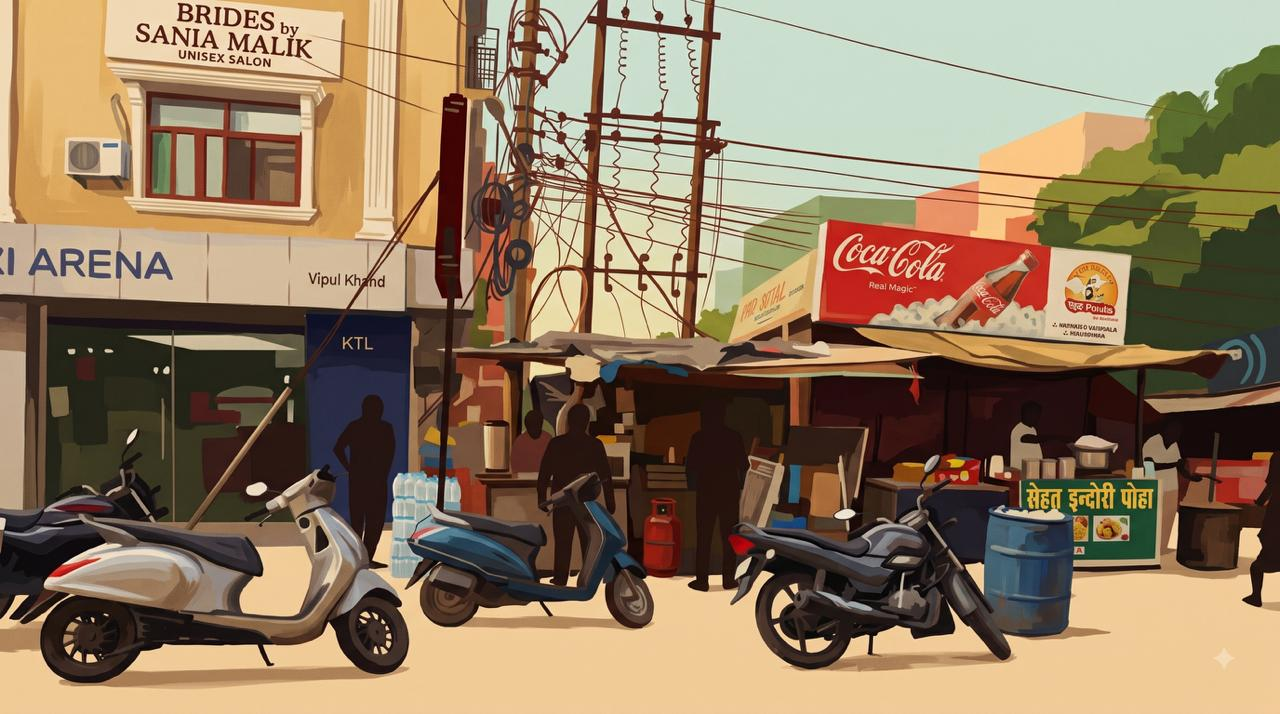
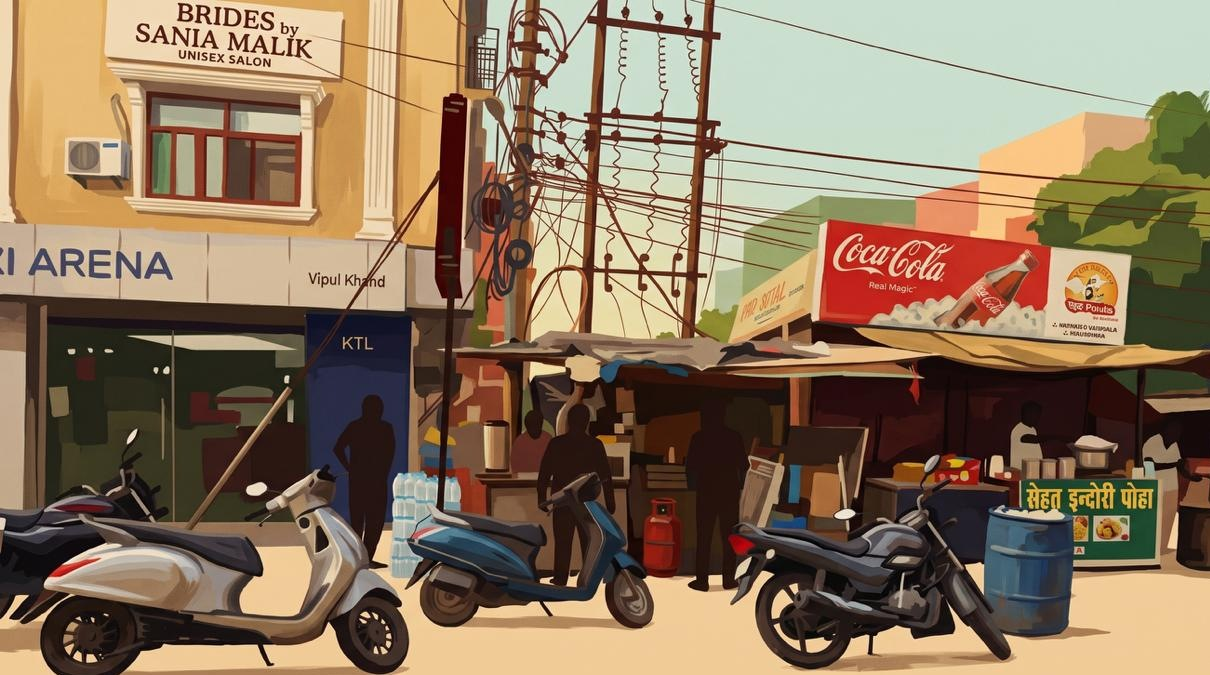
Crop out the Gemini watermark; switch the UI accent to the Afterhours red
The generated plates carried Gemini's sparkle watermark at a fixed
offset in the bottom-right — measured at x 1214-1234, y 647-667 across
the set. All 18 are re-encoded as the top-left 1210x675 region, which
drops the mark while holding the original 1.79 aspect ratio. Verified
every corner is clean and every signboard still reads.

The amber highlight becomes the wordmark red (#B7151E) on the active
time pill, the play button, the album ring and the register's active
row. Text on those red grounds flips from INK to PAPER — ink on this
red is only ~2.8:1, cream is ~5.2:1. Focus rings use a brightened
#E33B33 so they clear 3:1 against both the dark chrome and the cream
paper. Scene lighting stays warm; only the UI accent changed.

Claude-Session: https://claude.ai/code/session_01QFWSwmPyQVaiKognaxXyf8

diff --git a/app/page.js b/app/page.js
@@ -9,7 +9,8 @@ import { useEffect, useMemo, useRef, useState } from "react";
 const INK = "#17120E";
 const PAPER = "#EDE2CB";
 const CLAY = "#B4552F";
-const AMBER = "#E8A33D";
+const RED = "#B7151E";   /* Afterhours wordmark red — UI accent */
+const RED_LIT = "#E33B33"; /* brightened, for focus rings that must stay visible */
 const STEEL = "#93A0A6";
 
 const TAPRIS = [
@@ -552,7 +553,7 @@ function RegisterDrawer({ open, onClose, activeId, onSelect }) {
                       width: 6,
                       height: 6,
                       borderRadius: "50%",
-                      background: AMBER,
+                      background: RED,
                       flexShrink: 0,
                     }}
                   />
@@ -1230,8 +1231,8 @@ export default function Page() {
           transition: background 0.3s ease, color 0.3s ease;
         }
         .pill:hover { background: rgba(237,226,203,0.1); }
-        .pill.on { background: ${AMBER}; color: ${INK}; }
-        .pill.on:hover { background: ${AMBER}; }
+        .pill.on { background: ${RED}; color: ${PAPER}; }
+        .pill.on:hover { background: ${RED}; }
 
         .player {
           position: fixed;
@@ -1255,8 +1256,8 @@ export default function Page() {
           width: 42px; height: 42px;
           border-radius: 50%;
           border: none;
-          background: ${AMBER};
-          color: ${INK};
+          background: ${RED};
+          color: ${PAPER};
           cursor: pointer;
           display: flex;
           align-items: center;
@@ -1295,7 +1296,7 @@ export default function Page() {
           background-color: rgba(237,226,203,0.08);
           background-size: cover;
           background-position: center;
-          border: 1.5px solid rgba(232,163,61,0.85);
+          border: 1.5px solid rgba(183,21,30,0.9);
           box-shadow: 0 2px 10px rgba(0,0,0,0.4);
           display: flex;
           align-items: center;
@@ -1370,7 +1371,7 @@ export default function Page() {
         }
 
         button:focus-visible, [role="radio"]:focus-visible {
-          outline: 2px solid ${AMBER};
+          outline: 2px solid ${RED_LIT};
           outline-offset: 2px;
         }
 
